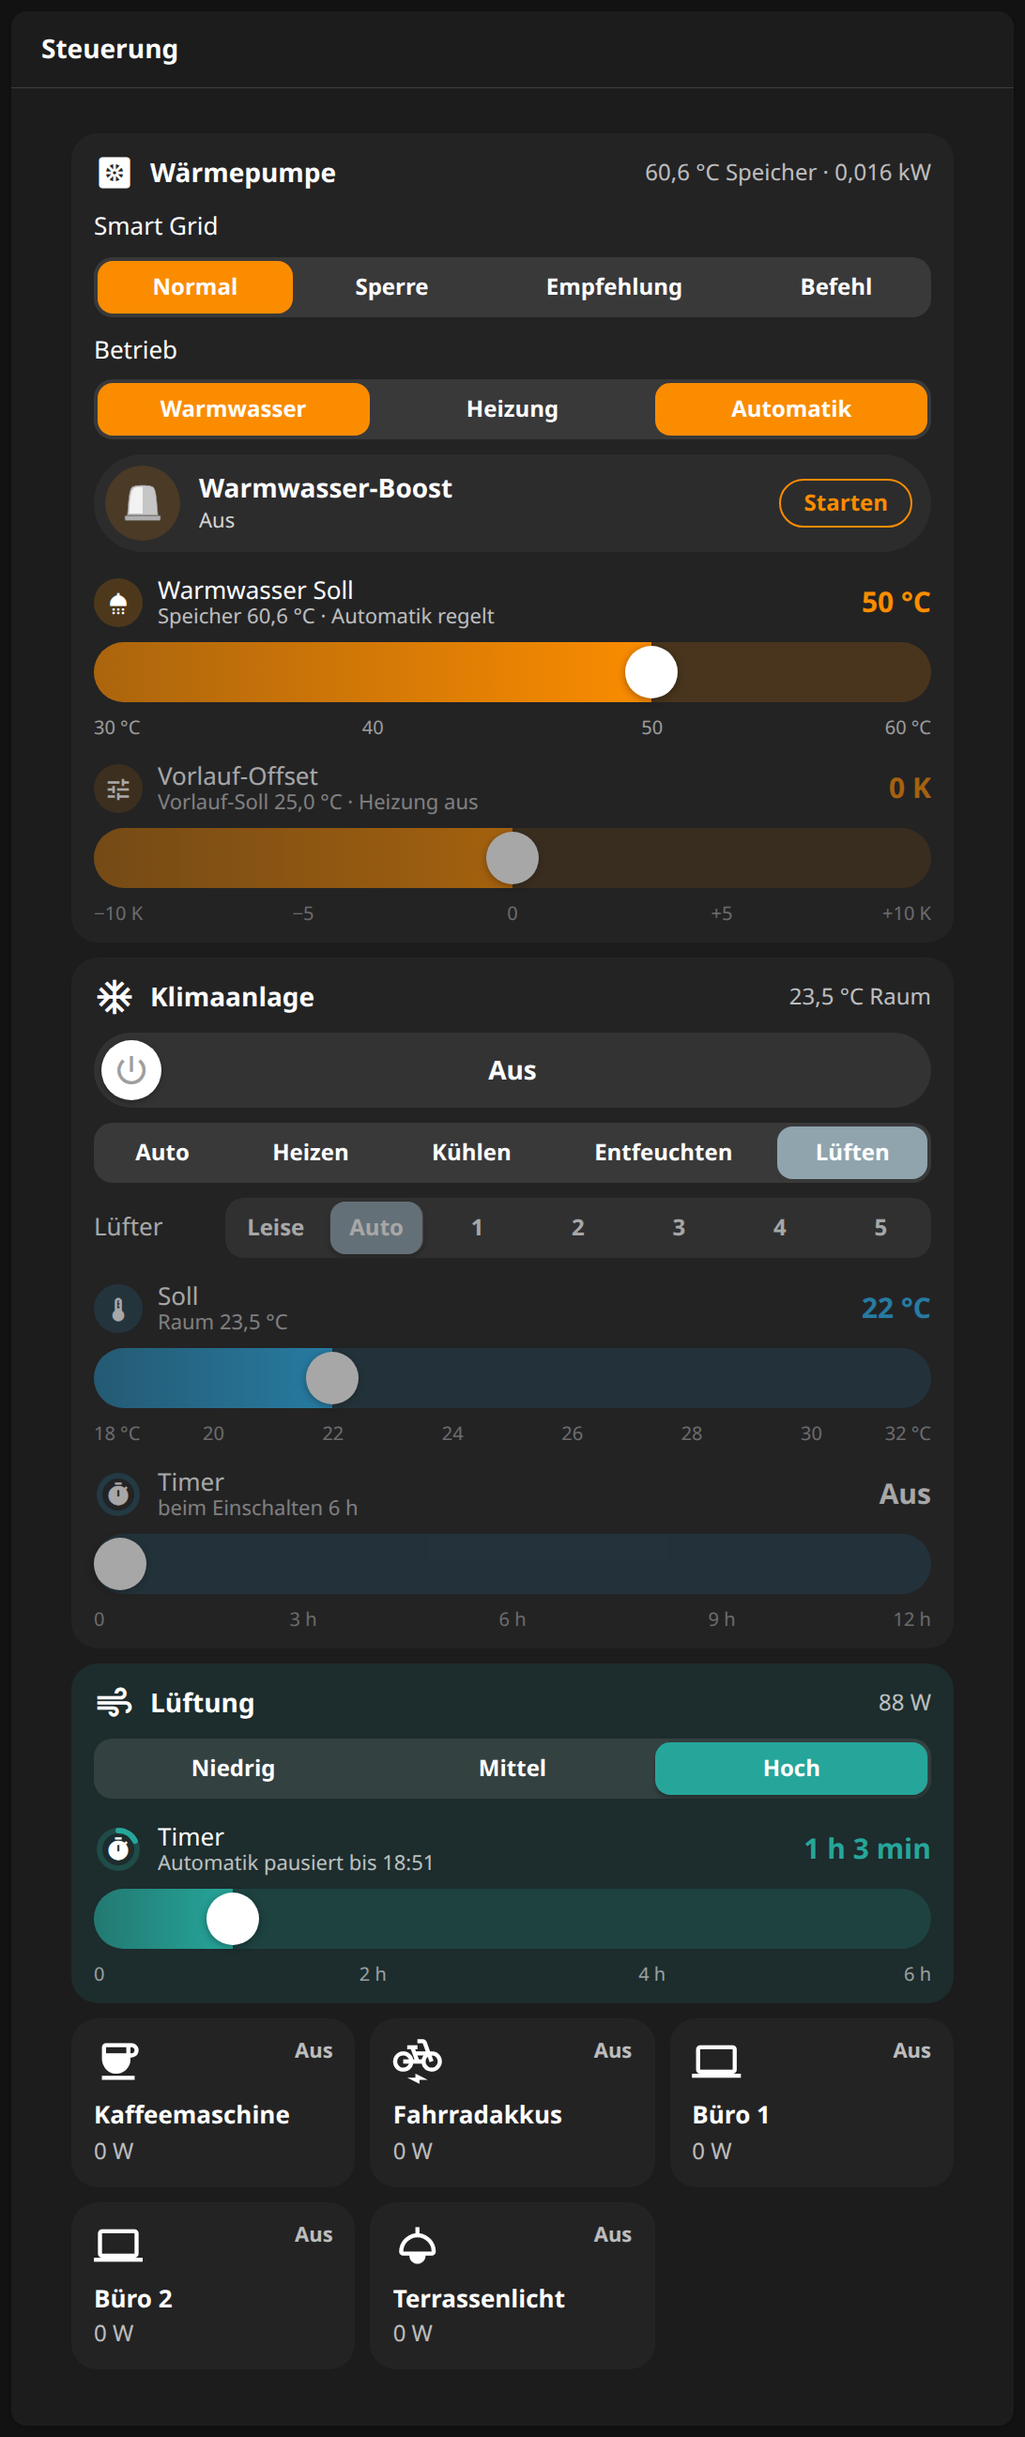
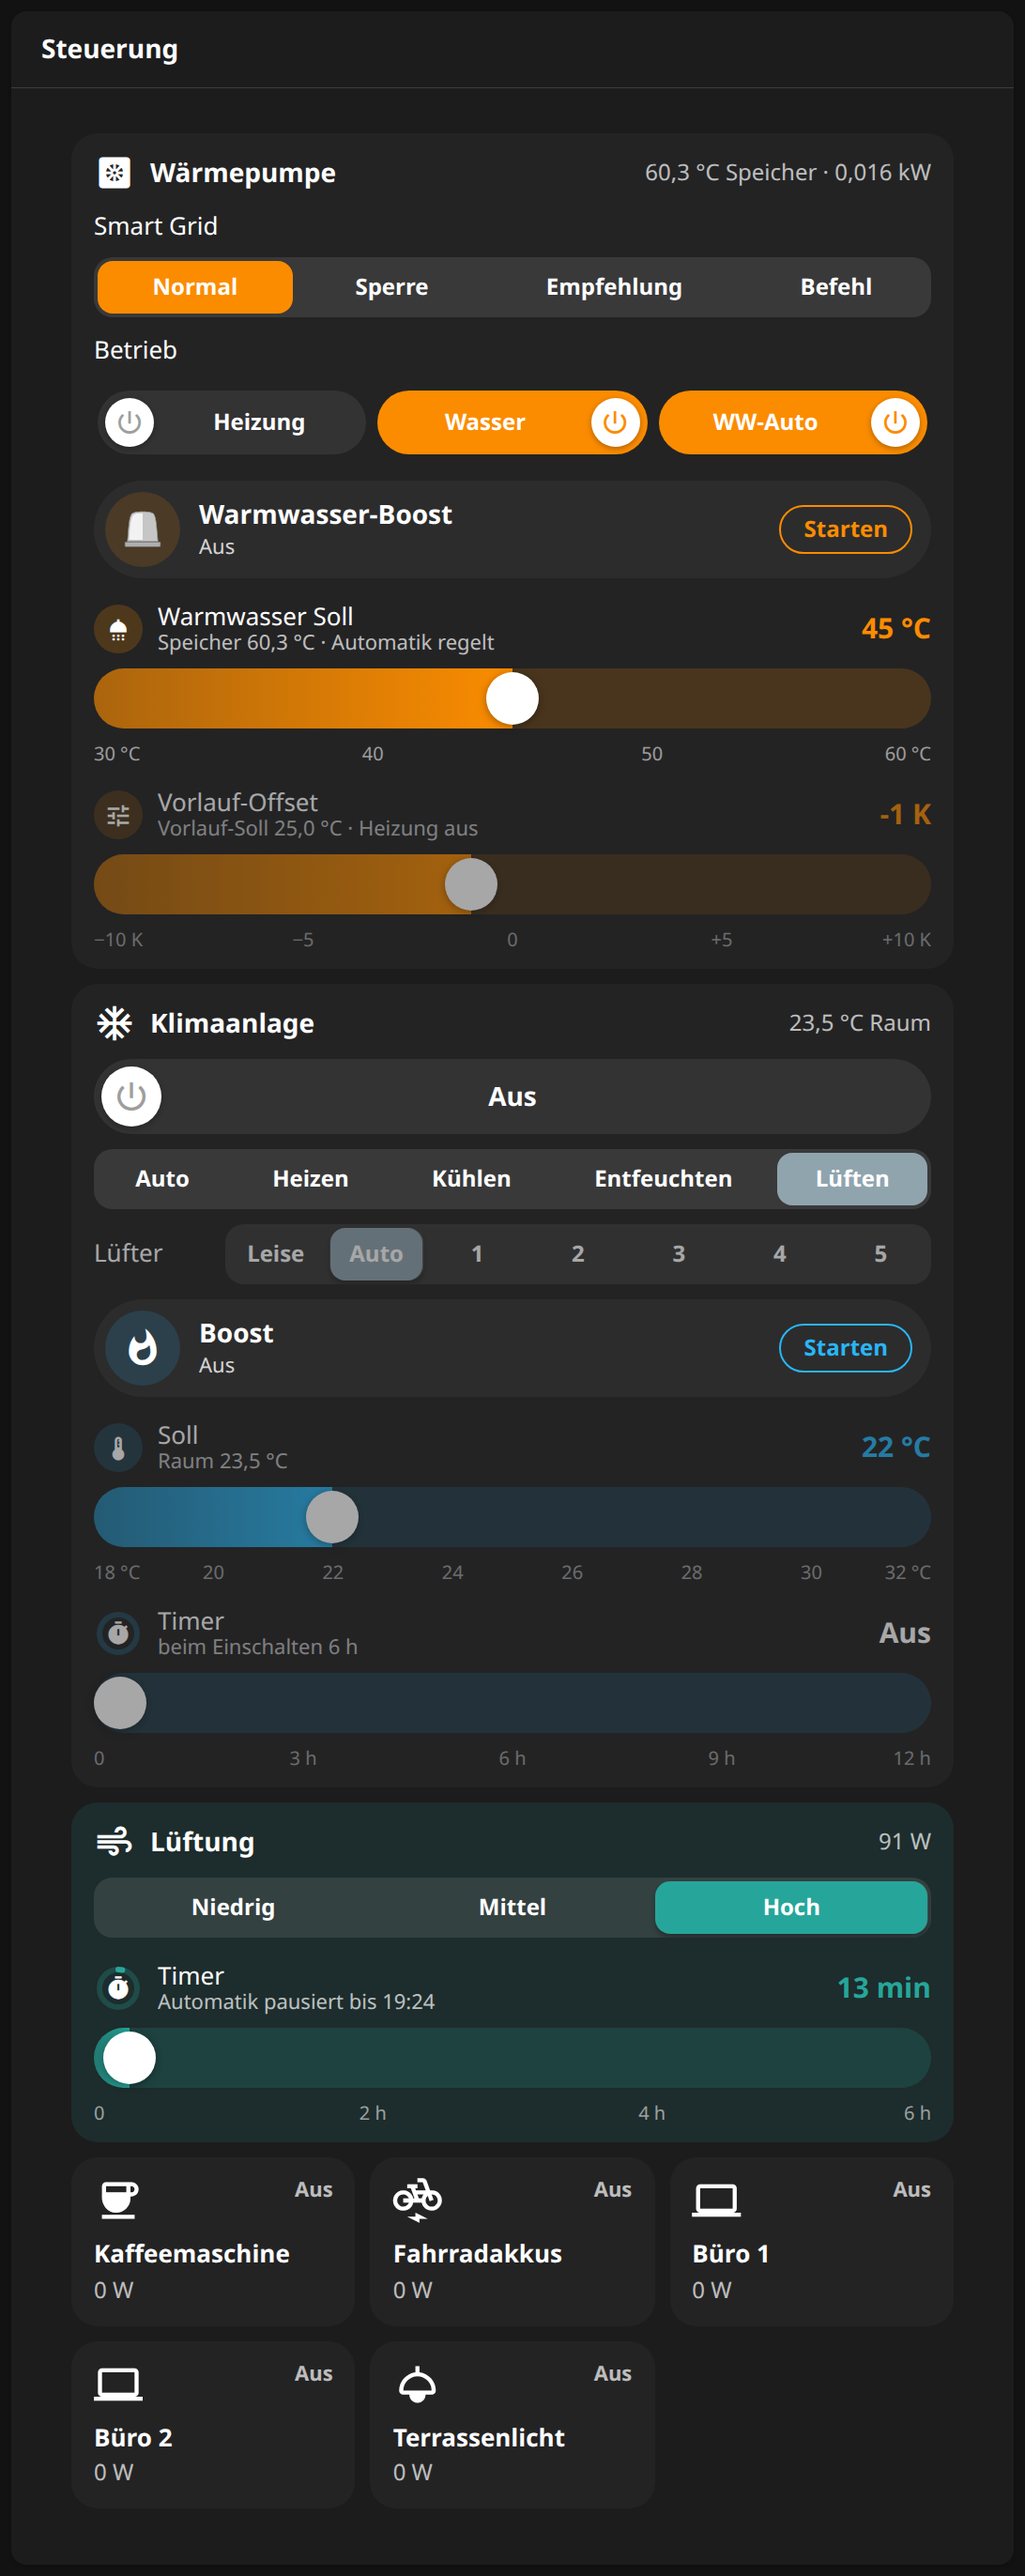
widgets: add pill-switch, switches as pills in the controls card
- Add pill-switch: the An/Aus pill made small for switches side by side,
  a white knob with the power symbol sliding over while the pill fills
  with the card's colour, the name in the free part; one size for all
- Controls card: heating, hot water and hot-water automation as three
  pills (Heizung, Wasser, WW-Auto), a boost pill for the air conditioner
- Document pill-switch in the README with an example and a screenshot
- Retake the controls card and overview screenshots

diff --git a/README.md b/README.md
@@ -1,7 +1,8 @@
 # openHAB Widgets
 
 MainUI widgets from my openHAB 5 installation: the cards of an energy and home dashboard, and a set of cards for every
-metered plug, a popup for any item, the tile their values stand in, and a slider and a switch row for settings. The UI
+metered plug, a popup for any item, the tile their values stand in, and a slider, a switch pill and a switch row for
+settings. The UI
 texts are German, numbers use a decimal comma. No widget names an item: every item comes in as a
 prop, so the widgets work with any item names.
 
@@ -185,9 +186,32 @@ config:
 | `opacity` | e.g. 0.6 while the device is off | TEXT |  |
 | `row` | A row of a page's or popup's controls, with their divider | BOOLEAN |  |
 
+## Switch pill: `pill-switch`
+
+A switch for switches that stand side by side: a pill 34 px high in which a white knob with the power symbol slides
+to the right while the pill fills with the card's colour, the name in the part the knob leaves free. Every pill has
+the same sizes; put several in a grid and keep the names short where the pills are narrow. A tap anywhere on the pill
+switches the item.
+
+```yaml
+component: widget:pill-switch
+config:
+  item: pyaltherma_climate_control_power
+  title: Heizung
+  color: "#fb8c00"
+```
+
+![Switch pills](screenshots/pill-switches.png)
+
+| Prop | Description | Type | Default |
+|---|---|---|---|
+| `item` | The switch item | Item |  |
+| `title` | Name of the switch, in the pill | TEXT |  |
+| `color` | The card's colour as #rrggbb, of the pill while on | TEXT | `#78909c` |
+
 ## Switch row: `switch-row`
 
-A switch in a row of controls: its icon in a circle tinted in the card's colour while on, the name, *An* or *Aus*, and
+A switch in a list of switches: its icon in a circle tinted in the card's colour while on, the name, *An* or *Aus*, and
 a switch drawn in the card's colour, a track that fills while on and a white knob that slides over. A tap anywhere
 on the row switches the item.
 
@@ -217,22 +241,22 @@ not part of this repository.
 
 ### Controls: `controls-card`
 
-Heat pump panel with Smart Grid mode, a bar that switches hot water, heating and the hot-water automation, a DHW boost action pill and sliders for the DHW setpoint and the leaving water offset; air conditioner panel with an on/off pill, mode, fan, a setpoint slider and a timer slider (mode, fan and sliders stay usable while the unit is off); ventilation level and timer slider; and tiles that toggle plugs and show their power. The sliders are instances of `pill-slider`, which has to be installed too.
+Heat pump panel with Smart Grid mode, three switch pills for heating, hot water and the hot-water automation, a DHW boost action pill and sliders for the DHW setpoint and the leaving water offset; air conditioner panel with an on/off pill, mode, fan, a boost action pill, a setpoint slider and a timer slider (mode, fan and sliders stay usable while the unit is off); ventilation level and timer slider; and tiles that toggle plugs and show their power. The sliders and pills are instances of `pill-slider` and `pill-switch`, which have to be installed too.
 
 ![Controls](screenshots/controls-card.png)
 
 ![Controls in dark mode](screenshots/controls-card-dark.png)
 
 <details>
-<summary>30 props</summary>
+<summary>31 props</summary>
 
 | Prop | Item | Item type |
 |---|---|---|
 | `heatpumpPower` | ESPAltherma Elektrische Leistung | Number:Power |
 | `heatpumpDhwTankTemp` | ESPAltherma Warmwasserspeicher Temperatur | Number:Temperature |
 | `heatpumpSmartGrid` | ESPAltherma Smart Grid | String |
-| `heatpumpDhwPower` | Pyaltherma Warmwasser Ein/Aus | Switch |
 | `heatpumpClimateControlPower` | Pyaltherma Heizung Ein/Aus | Switch |
+| `heatpumpDhwPower` | Pyaltherma Warmwasser Ein/Aus | Switch |
 | `heatpumpDhwManagement` | Wärmepumpe Warmwasser-Automatik | Switch |
 | `heatpumpDhwBoost` | Pyaltherma Warmwasser-Boost | Switch |
 | `heatpumpDhwTempHeating` | Pyaltherma Warmwasser Solltemperatur | Number:Temperature |
@@ -242,6 +266,7 @@ Heat pump panel with Smart Grid mode, a bar that switches hot water, heating and
 | `acTemperature` | Faikout Perfera Temperatur | Number:Temperature |
 | `acMode` | Faikout Perfera Modus | String |
 | `acFan` | Faikout Perfera Lüfter | String |
+| `acPowerful` | Faikout Perfera Powerful | Switch |
 | `acTemperatureSetpoint` | Faikout Perfera Solltemperatur | Number:Temperature |
 | `acTimer` | Klimaanlage Timer | Number:Time |
 | `ventilationPower` | Lüftung Leistung | Number:Power |
